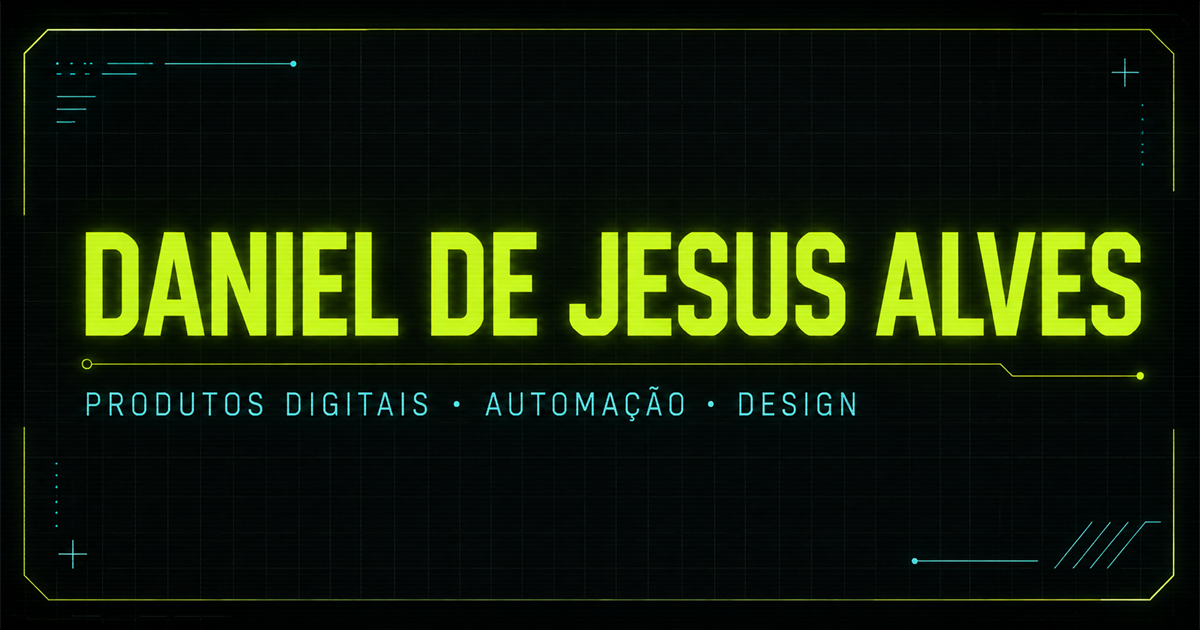
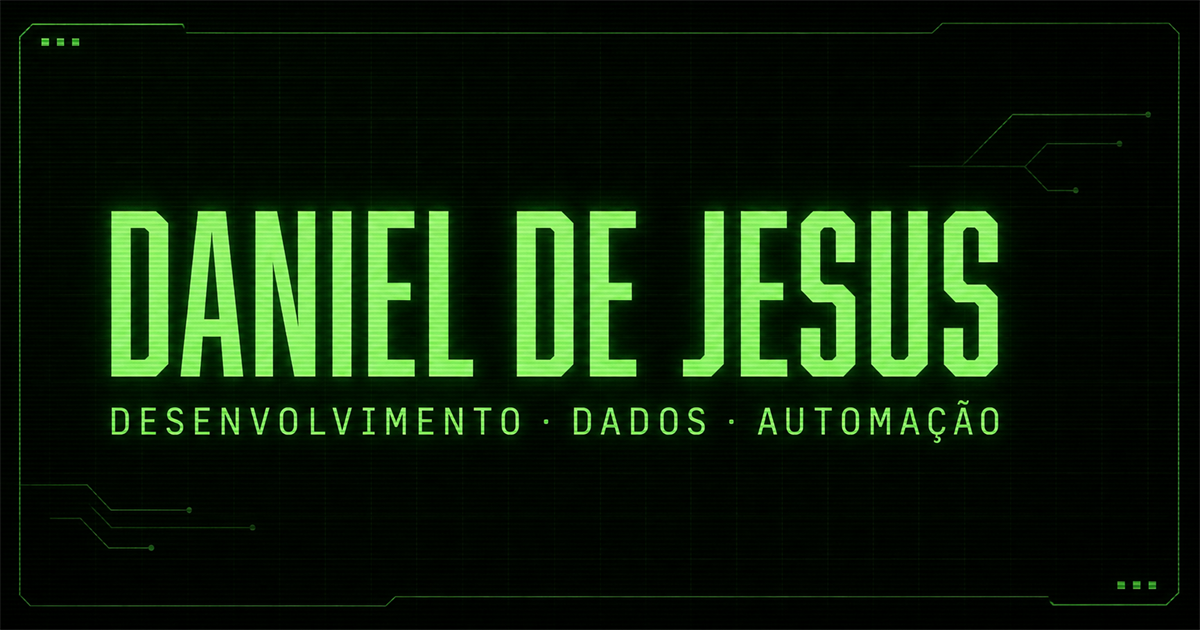
Update portfolio identity to Daniel de Jesus

diff --git a/src/components/RetroPortfolio.tsx b/src/components/RetroPortfolio.tsx
@@ -32,9 +32,9 @@ const credentials = [
   ['n8n + IA', 'Automações e fluxos inteligentes · 2026'],
 ];
 
-function Header({onDesign}:{onDesign:()=>void}){const[open,setOpen]=useState(false);const go=(id:string)=>{setOpen(false);document.getElementById(id)?.scrollIntoView({behavior:'smooth'})};return <header className="site-header"><button className="site-logo" onClick={()=>go('home')}><span>DDJ</span><i/></button><nav className={open?'open':''}>{[['about','Sobre'],['career','Carreira'],['projects','Projetos'],['stack','Stack'],['contact','Contato']].map(([id,label])=><button onClick={()=>go(id)} key={id}>{label}</button>)}<button className="design-switch" onClick={onDesign}>Modo Design ↗</button></nav><div className="header-meta"><span><i/> OPEN TO WORK</span><button className="menu-toggle" onClick={()=>setOpen(!open)}>{open?'FECHAR':'MENU'}</button></div></header>}
+function Header({onDesign}:{onDesign:()=>void}){const[open,setOpen]=useState(false);const go=(id:string)=>{setOpen(false);document.getElementById(id)?.scrollIntoView({behavior:'smooth'})};return <header className="site-header"><button className="site-logo" onClick={()=>go('home')}><span>DJA</span><i/></button><nav className={open?'open':''}>{[['about','Sobre'],['career','Carreira'],['projects','Projetos'],['stack','Stack'],['contact','Contato']].map(([id,label])=><button onClick={()=>go(id)} key={id}>{label}</button>)}<button className="design-switch" onClick={onDesign}>Modo Design ↗</button></nav><div className="header-meta"><span><i/> OPEN TO WORK</span><button className="menu-toggle" onClick={()=>setOpen(!open)}>{open?'FECHAR':'MENU'}</button></div></header>}
 
-function Hero({onDesign}:{onDesign:()=>void}){return <section id="home" className="new-hero"><div className="hero-noise"/><div className="hero-topline"><span>DESENVOLVIMENTO · DADOS · AUTOMAÇÃO</span><span>FEIRA DE SANTANA — BA</span></div><div className="new-hero-core"><motion.div className="hero-badge" initial={{opacity:0,scale:.8}} animate={{opacity:1,scale:1}} transition={{delay:.2}}><Terminal/><span>OPEN TO WORK</span></motion.div><div className="stable-title"><motion.h1 initial={{opacity:0,y:80}} animate={{opacity:1,y:0}} transition={{duration:.8,ease:[.16,1,.3,1]}}>DANIEL D</motion.h1></div><div className="glitch-wrap outline" data-text="JESUS"><motion.h1 initial={{opacity:0,y:80}} animate={{opacity:1,y:0}} transition={{duration:.8,delay:.08,ease:[.16,1,.3,1]}}>JESUS</motion.h1></div><div className="hero-typing"><span>EU CONSTRUO</span><Typewriter/></div><motion.p initial={{opacity:0}} animate={{opacity:1}} transition={{delay:.75}}>Desenvolvedor em formação, com base prática em suporte técnico, operações e processos. Uno código, inteligência artificial, automação e dados para transformar problemas reais em sistemas úteis.</motion.p><motion.div className="new-hero-actions" initial={{opacity:0,y:20}} animate={{opacity:1,y:0}} transition={{delay:.9}}><button onClick={()=>document.getElementById('projects')?.scrollIntoView({behavior:'smooth'})}>Explorar projetos <ArrowRight/></button><button className="mode-design-button" onClick={onDesign}>Modo Design <Palette/></button></motion.div></div><aside className="hero-system"><span>CANDIDATE STATUS</span><div><b>ADS</b><i/><strong>CURSANDO</strong></div><div><b>ENGLISH</b><i/><strong>B1</strong></div><div><b>LOCATION</b><i/><strong>BA · BR</strong></div></aside><button className="hero-scroll" onClick={()=>document.getElementById('about')?.scrollIntoView({behavior:'smooth'})}><span>SCROLL</span><ArrowDownRight/></button></section>}
+function Hero({onDesign}:{onDesign:()=>void}){return <section id="home" className="new-hero"><div className="hero-noise"/><div className="hero-topline"><span>DESENVOLVIMENTO · DADOS · AUTOMAÇÃO</span><span>FEIRA DE SANTANA — BA</span></div><div className="new-hero-core"><motion.div className="hero-badge" initial={{opacity:0,scale:.8}} animate={{opacity:1,scale:1}} transition={{delay:.2}}><Terminal/><span>OPEN TO WORK</span></motion.div><div className="stable-title"><motion.h1 initial={{opacity:0,y:80}} animate={{opacity:1,y:0}} transition={{duration:.8,ease:[.16,1,.3,1]}}>DANIEL DE</motion.h1></div><div className="glitch-wrap outline" data-text="JESUS"><motion.h1 initial={{opacity:0,y:80}} animate={{opacity:1,y:0}} transition={{duration:.8,delay:.08,ease:[.16,1,.3,1]}}>JESUS</motion.h1></div><div className="hero-typing"><span>EU CONSTRUO</span><Typewriter/></div><motion.p initial={{opacity:0}} animate={{opacity:1}} transition={{delay:.75}}>Desenvolvedor em formação, com base prática em suporte técnico, operações e processos. Uno código, inteligência artificial, automação e dados para transformar problemas reais em sistemas úteis.</motion.p><motion.div className="new-hero-actions" initial={{opacity:0,y:20}} animate={{opacity:1,y:0}} transition={{delay:.9}}><button onClick={()=>document.getElementById('projects')?.scrollIntoView({behavior:'smooth'})}>Explorar projetos <ArrowRight/></button><button className="mode-design-button" onClick={onDesign}>Modo Design <Palette/></button></motion.div></div><aside className="hero-system"><span>CANDIDATE STATUS</span><div><b>ADS</b><i/><strong>CURSANDO</strong></div><div><b>ENGLISH</b><i/><strong>B1</strong></div><div><b>LOCATION</b><i/><strong>BA · BR</strong></div></aside><button className="hero-scroll" onClick={()=>document.getElementById('about')?.scrollIntoView({behavior:'smooth'})}><span>SCROLL</span><ArrowDownRight/></button></section>}
 
 function About(){return <section id="about" className="new-about"><div className="about-index"><span>02</span><small>PROFILE.TXT</small></div><div className="about-lead"><span className="terminal-kicker">// quem está por trás</span><motion.h2 initial={{opacity:0,y:45}} whileInView={{opacity:1,y:0}} viewport={{once:true}}>Tecnologia com<br/><em>visão de negócio.</em></motion.h2><p>Não me interessa tecnologia pela tecnologia. Eu construo para reduzir passos, organizar operações e transformar informação em ação.</p></div><div className="about-details"><div className="terminal-window"><div className="terminal-bar"><span/><span/><span/><b>about_daniel.md</b></div><div className="terminal-content"><p><i>$</i> cat profile.md</p><p>Curso Análise e Desenvolvimento de Sistemas e atuo com desenvolvimento, automação, integrações e dados.</p><p>Minha experiência com atendimento, marketing e conteúdo trouxe algo importante para a técnica: clareza para conversar com clientes, senso de prazo e foco no resultado.</p><p>Uso IA como acelerador, com revisão, testes e decisão humana em cada entrega. O Modo Design será uma experiência separada, com identidade e projetos próprios.</p><span className="terminal-cursor">_</span></div></div><div className="about-facts"><div><MapPin/><span>BASE</span><strong>Brasil</strong></div><div><Braces/><span>FOCO</span><strong>Produto digital</strong></div><div><Sparkles/><span>MÉTODO</span><strong>IA + critério</strong></div><div><CheckCircle2/><span>STATUS</span><strong>Disponível</strong></div></div></div></section>}
 
@@ -46,4 +46,4 @@ function Stack(){return <section id="stack" className="new-stack"><div className
 
 function Contact(){return <section id="contact" className="new-contact"><div className="contact-star"><Asterisk/></div><span className="terminal-kicker">// conexão aberta</span><h2>Tem um problema<br/>interessante?</h2><div className="contact-bottom"><p>Vamos transformar em um produto que funcione — e que tenha presença.</p><div className="contact-links"><a href="mailto:contact@setupdja.website"><Mail/> E-mail <ArrowRight/></a><a href="https://wa.me/5575982414860?text=Ol%C3%A1%20Daniel,%20vi%20seu%20portf%C3%B3lio%20e%20gostaria%20de%20conversar." target="_blank" rel="noreferrer"><MessageCircle/> WhatsApp <ArrowRight/></a><a href="https://www.linkedin.com/in/daniel-de-jesus-00ab442b5/" target="_blank" rel="noreferrer"><Linkedin/> LinkedIn <ArrowRight/></a><a href="https://github.com/Dja-Cripto" target="_blank" rel="noreferrer"><Github/> GitHub <ArrowRight/></a></div></div></section>}
 
-export default function RetroPortfolio(){const{scrollYProgress}=useScroll();const scaleX=useSpring(scrollYProgress,{stiffness:100,damping:30,restDelta:.001});const[notice,setNotice]=useState(false);const showDesignNotice=()=>{setNotice(true);window.setTimeout(()=>setNotice(false),2600)};return <div className="retro-site"><RetroCursor/><motion.div className="progress-line" style={{scaleX}}/><div className="crt-overlay" aria-hidden="true"/><Header onDesign={showDesignNotice}/><main><Hero onDesign={showDesignNotice}/><div className="tech-marquee" aria-hidden="true"><div>{[...tech,...tech].map((item,i)=><span key={`${item}-${i}`}><Asterisk/>{item}</span>)}</div></div><About/><Services/><Career/><Projects/><Stack/><Contact/></main><footer className="new-footer"><span>DANIEL D JESUS</span><span>DESENVOLVIDO COM CÓDIGO + IA</span><span>© {new Date().getFullYear()}</span></footer><AnimatePresence>{notice&&<motion.div className="design-notice" initial={{opacity:0,y:20}} animate={{opacity:1,y:0}} exit={{opacity:0,y:12}}><Palette/><div><strong>MODO DESIGN</strong><span>Em construção · próxima atualização</span></div></motion.div>}</AnimatePresence></div>}
+export default function RetroPortfolio(){const{scrollYProgress}=useScroll();const scaleX=useSpring(scrollYProgress,{stiffness:100,damping:30,restDelta:.001});const[notice,setNotice]=useState(false);const showDesignNotice=()=>{setNotice(true);window.setTimeout(()=>setNotice(false),2600)};return <div className="retro-site"><RetroCursor/><motion.div className="progress-line" style={{scaleX}}/><div className="crt-overlay" aria-hidden="true"/><Header onDesign={showDesignNotice}/><main><Hero onDesign={showDesignNotice}/><div className="tech-marquee" aria-hidden="true"><div>{[...tech,...tech].map((item,i)=><span key={`${item}-${i}`}><Asterisk/>{item}</span>)}</div></div><About/><Services/><Career/><Projects/><Stack/><Contact/></main><footer className="new-footer"><span>DANIEL DE JESUS</span><span>DESENVOLVIDO COM CÓDIGO + IA</span><span>© {new Date().getFullYear()}</span></footer><AnimatePresence>{notice&&<motion.div className="design-notice" initial={{opacity:0,y:20}} animate={{opacity:1,y:0}} exit={{opacity:0,y:12}}><Palette/><div><strong>MODO DESIGN</strong><span>Em construção · próxima atualização</span></div></motion.div>}</AnimatePresence></div>}

diff --git a/src/components/Projects.tsx b/src/components/Projects.tsx
@@ -74,7 +74,7 @@ function InvestolqCase({ onClose }: { onClose: () => void }) {
             <div className="gallery-stack"><figure><img src="/investolq-dashboard.png" alt="Painel de acompanhamento do Investolq" /><figcaption>01 — Painel de operação</figcaption></figure><figure><img src="/investolq-agenda.png" alt="Agenda semanal do Investolq" /><figcaption>02 — Agenda inteligente</figcaption></figure><figure><img src="/investolq-n8n.png" alt="Fluxo de automação no n8n" /><figcaption>03 — Orquestração n8n</figcaption></figure></div>
           </section>
           <section className="stack-marquee" aria-label="Tecnologias utilizadas">{investolq.tech.map((tech) => <span key={tech}>{tech}</span>)}</section>
-          <footer className="case-footer"><p>Case desenvolvido por Daniel de Jesus Alves · {investolq.year}</p><button onClick={onClose}>Fechar case <X /></button></footer>
+          <footer className="case-footer"><p>Case desenvolvido por Daniel de Jesus · {investolq.year}</p><button onClick={onClose}>Fechar case <X /></button></footer>
         </div>
       </article>
     </ModalWrapper>
@@ -88,7 +88,7 @@ function StandardCase({ project, onClose }: { project: Project; onClose: () => v
         <header className="case-hero compact-hero"><img src={project.coverImage} alt={project.title} /><div className="case-hero-shade" /><div className="case-hero-copy"><span className="terminal-kicker">// selected_work</span><h2>{project.title}</h2></div></header>
         <div className="case-body"><div className="case-intro-grid"><div><span className="terminal-kicker">Sobre o projeto</span><h3>Ideia rápida.<br /><span>Execução afiada.</span></h3></div><div className="case-prose">{project.fullDescription.split('\n\n').map((p) => <p key={p}>{p}</p>)}</div></div>
           <div className="project-actions">{project.playLink && <a href={project.playLink} target="_blank" rel="noreferrer"><Gamepad2 /> Jogar agora <ArrowUpRight /></a>}{project.githubLink && <a className="secondary" href={project.githubLink} target="_blank" rel="noreferrer"><Github /> Ver código <ArrowUpRight /></a>}</div>
-          <section className="stack-marquee">{project.tech.map((tech) => <span key={tech}>{tech}</span>)}</section><footer className="case-footer"><p>Case desenvolvido por Daniel de Jesus Alves · {project.year}</p><button onClick={onClose}>Fechar case <X /></button></footer>
+          <section className="stack-marquee">{project.tech.map((tech) => <span key={tech}>{tech}</span>)}</section><footer className="case-footer"><p>Case desenvolvido por Daniel de Jesus · {project.year}</p><button onClick={onClose}>Fechar case <X /></button></footer>
         </div>
       </article>
     </ModalWrapper>

diff --git a/index.html b/index.html
@@ -6,18 +6,18 @@
     <link rel="icon" type="image/png" sizes="32x32" href="/favicon-32x32.png" />
     <link rel="icon" type="image/png" sizes="16x16" href="/favicon-16x16.png" />
     <link rel="apple-touch-icon" sizes="192x192" href="/android-chrome-192x192.png" />
-    <meta name="description" content="Portfólio de Daniel de Jesus Alves — desenvolvimento, automação, inteligência artificial, dados e direção criativa." />
+    <meta name="description" content="Portfólio de Daniel de Jesus — desenvolvimento, automação, inteligência artificial e dados." />
     <meta name="theme-color" content="#060809" />
-    <meta property="og:title" content="Daniel de Jesus Alves — Portfolio" />
+    <meta property="og:title" content="Daniel de Jesus — Portfolio" />
     <meta property="og:description" content="Produtos digitais, automações inteligentes e experiências visuais." />
     <meta property="og:image" content="https://daniel-de-jesus-portfolio.pedroalvezd8.chatgpt.site/og.png" />
     <meta property="og:type" content="website" />
     <meta property="og:url" content="https://daniel-de-jesus-portfolio.pedroalvezd8.chatgpt.site" />
     <meta name="twitter:card" content="summary_large_image" />
-    <meta name="twitter:title" content="Daniel de Jesus Alves — Portfolio" />
+    <meta name="twitter:title" content="Daniel de Jesus — Portfolio" />
     <meta name="twitter:description" content="Produtos digitais, automações inteligentes e experiências visuais." />
     <meta name="twitter:image" content="https://daniel-de-jesus-portfolio.pedroalvezd8.chatgpt.site/og.png" />
-    <title>Daniel de Jesus Alves — Portfolio</title>
+    <title>Daniel de Jesus — Portfolio</title>
   </head>
   <body>
     <div id="root"></div>
